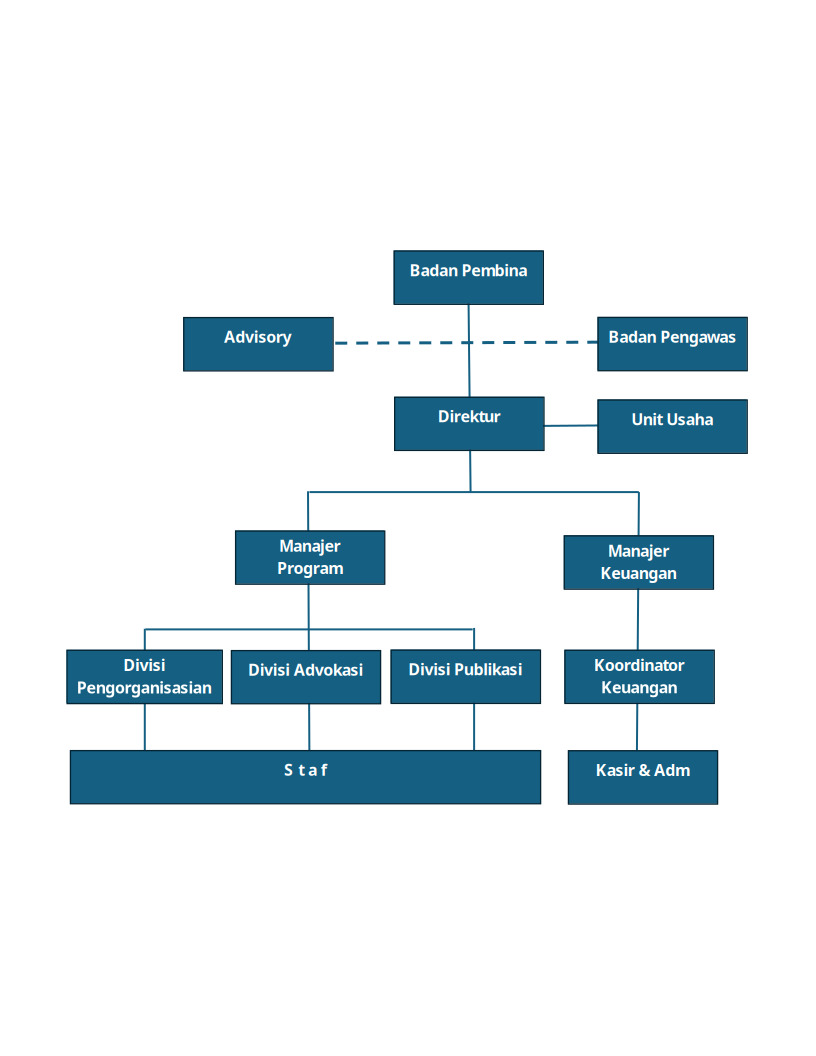
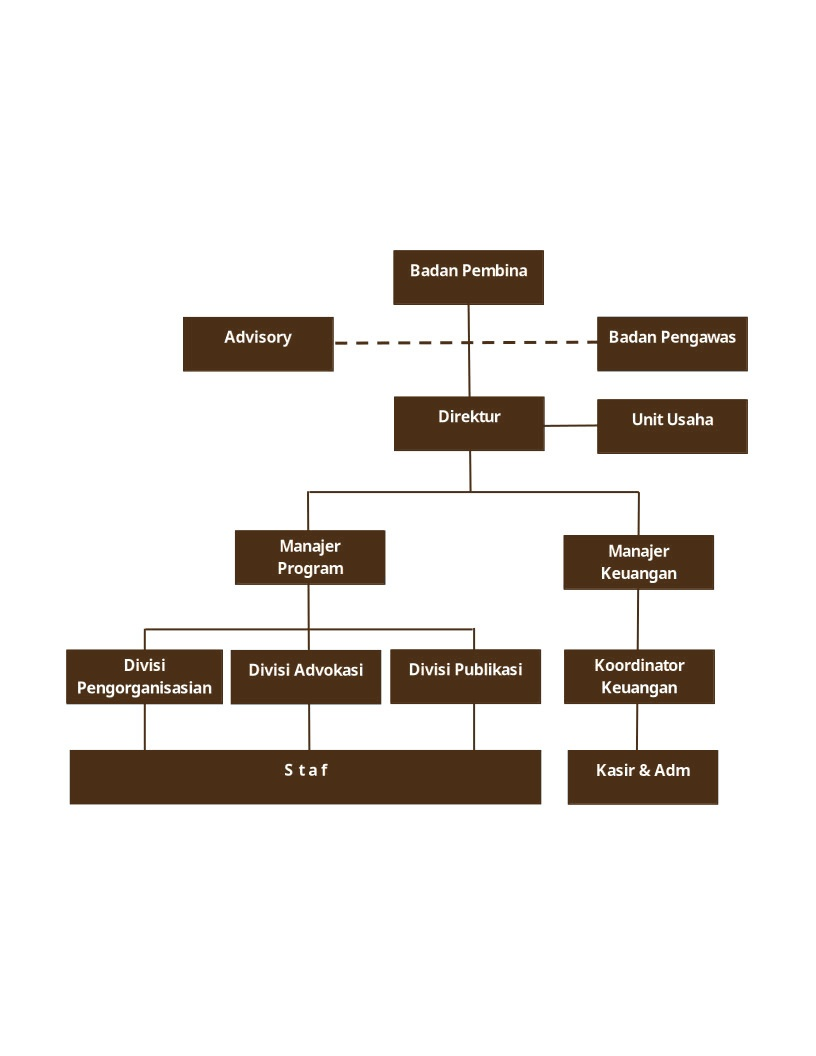
revisi section programs and navbar

diff --git a/src/components/About.jsx b/src/components/About.jsx
@@ -54,35 +54,37 @@ export default function About() {
       icon: Scale,
       title: 'Nilai Dasar: Kearifan Lokal',
       desc: 'Pemberdayaan dilakukan dengan menggali nilai dan pranata sosial lokal yang hidup di masyarakat untuk melindungi dan menjunjung tinggi hak, harkat, dan martabat perempuan, dengan tetap kritis memperbaharui nilai patriarki yang merugikan.'
+    },
+    {
+      icon: BookOpen,
+      title: 'Strategi 4 Pilar Pengorganisasian',
+      desc: (
+        <ul className="list-disc pl-4 space-y-1.5 mt-1 text-xs sm:text-sm text-zinc-650 dark:text-zinc-400">
+          <li>Membangun Visi dan Misi</li>
+          <li>Peningkatan kapasitas</li>
+          <li>Pengembangan organisasi dan jaringan kerja</li>
+          <li>Advokasi kebijakan dan perubahan sosial</li>
+        </ul>
+      )
     }
   ];
 
   const timelineEvents = [
     {
-      title: 'Cakupan Wilayah',
-      desc: 'Pendampingan aktif PPSW Banten tersebar di berbagai wilayah administrasi basis dampingan di Provinsi Banten.',
-      stats: [
-        { label: 'Kabupaten', value: '4', note: 'Pandeglang, Lebak, Serang, Tangerang' },
-        { label: 'Kecamatan Binaan', value: '13', note: 'Kecamatan aktif dampingan' },
-        { label: 'Desa Dampingan', value: '34', note: 'Desa/Kelurahan tingkat basis' }
-      ]
+      title: '1986',
+      desc: 'Pusat Pengembangan Sumberdaya Wanita disingkat PPSW berdiri pada bulan Juni 1986 sebagai badan Pelaksana dari Yayasan An-Nisa Indonesia.',
     },
     {
-      title: 'Kelompok & Dampingan',
-      desc: 'Membangun kesadaran kritis, memperkuat kepemimpinan, dan mengorganisasi perempuan tingkat basis.',
-      stats: [
-        { label: 'Perempuan Dampingan', value: '2.359', note: 'Jiwa perempuan aktif basis' },
-        { label: 'Kelompok/Koperasi', value: '50', note: 'Kelompok Pra Koperasi & Koperasi' }
-      ]
+      title: '2005',
+      desc: 'PPSW bertransformasi menjadi organisasi Asosiasi yang terdiri dari empat lembaga otonom yaitu PPSW Jakarta, PPSW Banten, PPSW Borneo dan PPSW Sumatera.',
     },
     {
-      title: 'Kemandirian Finansial',
-      desc: 'Pengembangan modal usaha anggota koperasi perempuan secara mandiri dan berkelanjutan bebas rentenir.',
-      stats: [
-        { label: 'Simpanan Anggota', value: 'Rp 4.869.154.103', note: 'Simpanan kelompok' },
-        { label: 'Pinjaman Disalurkan', value: 'Rp 5.377.995.550', note: 'Sirkulasi modal usaha' },
-        { label: 'Asset Koperasi', value: 'Rp 6.618.699.573', note: 'Akumulasi kekayaan koperasi' }
-      ]
+      title: '2021',
+      desc: 'Strategi desentralisasi diperkuat dengan pembentukan wilayah otonom baru yaitu PPSW Sumatera menjadi PPSW Aceh dan PPSW Riau sedangkan PPSW Pasoendan menjadi PPSW Pasoendan Digdaya, agar pelayanan dan pendampingan lebih dekat dengan masyarakat.',
+    },
+    {
+      title: '2026',
+      desc: 'Melalui Mubes Asosiasi PPSW, PPSW Pasoendan Digdaya bertransformasi menjadi PPSW Tatar Sunda dan PPSW Banten. PPSW Banten resmi berdiri sebagai lembaga otonom yang melanjutkan gerakan pemberdayaan perempuan di Provinsi Banten.',
     }
   ];
 
@@ -185,17 +187,17 @@ export default function About() {
             {/* Opening Story (Narrative Highlight) */}
             <div className="border-l-4 border-primary pl-6 py-2">
               <p className="text-lg sm:text-xl font-serif italic font-extrabold text-secondary dark:text-[#FFF5EB] leading-relaxed">
-                "Setiap perempuan membawa cerita tentang kekuatan dan mimpi. Bersama PPSW Banten, langkah kecil dari akar rumput tumbuh menjadi gerakan besar yang mengubah dunia. Karena ketika perempuan berdaya dan berdaulat, masa depan yang adil bukan lagi harapan—melainkan kenyataan."
+                "Setiap perempuan membawa cerita tentang kekuatan dan mimpi. Bersama PPSW Banten, langkah kecil dari akar rumput tumbuh menjadi gerakan besar yang mampu mengubah dunia."
               </p>
             </div>
 
             {/* Profile Content */}
             <div className="pt-4 space-y-4 text-xs sm:text-sm md:text-base">
               <p className="text-zinc-700 dark:text-zinc-300 leading-relaxed">
-                PPSW Banten adalah Organisasi Non Pemerintah (Ornop) yang berfokus pada pemberdayaan perempuan, penguatan ekonomi, kepemimpinan perempuan, keadilan gender, serta pembangunan masyarakat yang inklusif di Provinsi Banten. Kami berupaya menumbuhkan kesadaran kritis masyarakat, meningkatkan kapasitas, dan membuka akses melalui kegiatan utamanya yaitu pengorganisasian masyarakat dengan pintu masuk melalui kegiatan ekonomi dengan pembentukan kelompok perempuan berbasis kegiatan Pra Koperasi.
+                PPSW Banten adalah NGO perempuan yang berpihak pada hak-hak dan kepentingan perempuan untuk mewujudkan keadilan, kesejahteraan, dan kesetaraan. Sejak berdiri, PPSW Banten secara konsisten mendampingi kelompok perempuan di tingkat basis, memperkuat kapasitas kepemimpinan perempuan, serta membangun solidaritas untuk menciptakan perubahan sosial yang berkelanjutan.
               </p>
               <p className="text-zinc-700 dark:text-zinc-300 leading-relaxed font-normal">
-                Didirikan sejak Juni 1986 sebagai badan Pelaksana dari Yayasan An-Nisa Indonesia, PPSW bertransformasi menjadi Yayasan PPSW pada 1998 dan Perkumpulan PPSW pada 2003. Pada tahun 2005, PPSW menjadi organisasi Asosiasi dengan empat lembaga otonom. Melalui desentralisasi wilayah, pada Juni 2026 Mubes Asosiasi PPSW memandirikan PPSW Banten untuk melanjutkan gerakan pemberdayaan kelompok perempuan basis di Provinsi Banten secara terfokus dan efektif.
+                Kami percaya bahwa setiap perempuan memiliki potensi untuk menjadi agen perubahan. Dengan memperkuat organisasi perempuan di basis, memperluas akses terhadap pendidikan, ekonomi, sosial, advokasi, dan ruang partisipasi publik, PPSW Banten terus mendorong lahirnya gerakan masyarakat yang lebih adil, inklusif, dan setara.
               </p>
             </div>
           </motion.div>
@@ -245,21 +247,21 @@ export default function About() {
           </div>
         </div>
 
-        {/* Perjalanan PPSW Section */}
+        {/* Perjalanan PPSW Section - History Timeline */}
         <div className="mb-24">
           <div className="text-center max-w-2xl mx-auto mb-16 relative">
             <WatercolorBlob className="w-48 h-48 -top-12 left-1/2 -translate-x-1/2 opacity-40" seed={1} />
             <span className="inline-flex items-center gap-1.5 px-3 py-1 rounded-full bg-secondary/10 text-secondary dark:bg-secondary/20 dark:text-accent text-xs font-bold uppercase tracking-wider mb-3">
-              Capaian & Dampak
+              Perjalanan Gerakan
             </span>
             <h3 className="text-2xl sm:text-4xl font-serif font-extrabold text-secondary dark:text-white">
-              Capaian Dampak Pendampingan
+              Sejarah PPSW Banten
             </h3>
             <div className="h-0.5 w-16 bg-primary/30 mx-auto mt-4" />
           </div>
 
-          {/* Clean Horizontal Timeline on Desktop / Vertical Stack on Mobile */}
-          <div className="relative border-l-2 border-primary/25 dark:border-primary/15 ml-4 md:ml-0 md:border-l-0 md:grid md:grid-cols-3 md:gap-6 lg:gap-8 before:absolute before:top-1/2 before:left-0 before:right-0 before:h-0.5 before:bg-primary/20 before:-translate-y-1/2 before:hidden before:md:block">
+          {/* Clean Timeline on Desktop / Vertical Stack on Mobile */}
+          <div className="relative border-l-2 border-primary/25 dark:border-primary/15 ml-4 md:ml-0 md:border-l-0 md:grid md:grid-cols-2 lg:grid-cols-4 md:gap-6 lg:gap-8">
             
             {timelineEvents.map((event, idx) => (
               <motion.div
@@ -273,6 +275,71 @@ export default function About() {
                 {/* Connector Dot */}
                 <div className="absolute left-[-9px] top-0.5 md:left-1/2 md:-translate-x-1/2 md:-top-2 w-4 h-4 rounded-full bg-white dark:bg-zinc-950 border-4 border-primary group-hover:scale-125 transition-transform duration-300 z-10" />
 
+                {/* Event Card */}
+                <div className="p-6 rounded-2xl bg-white/70 dark:bg-zinc-900/50 border border-primary/10 shadow-md group-hover:shadow-lg transition-all duration-300 hover:scale-[1.01] h-full flex flex-col justify-start text-left premium-card premium-card-hover">
+                  <span className="font-serif font-extrabold text-xl sm:text-2xl text-secondary dark:text-white mb-1.5 block leading-tight">
+                    {event.title}
+                  </span>
+                  <p className="text-xs sm:text-sm text-zinc-650 dark:text-zinc-400 leading-relaxed font-normal">
+                    {event.desc}
+                  </p>
+                </div>
+              </motion.div>
+            ))}
+          </div>
+        </div>
+        
+        {/* Capaian & Dampak Section */}
+        <div className="mb-24">
+          <div className="text-center max-w-2xl mx-auto mb-16 relative">
+            <WatercolorBlob className="w-48 h-48 -top-12 left-1/2 -translate-x-1/2 opacity-40" seed={2} />
+            <span className="inline-flex items-center gap-1.5 px-3 py-1 rounded-full bg-primary/10 text-primary dark:bg-primary/20 dark:text-accent text-xs font-bold uppercase tracking-wider mb-3">
+              Capaian & Dampak
+            </span>
+            <h3 className="text-2xl sm:text-4xl font-serif font-extrabold text-secondary dark:text-white">
+              Capaian Dampak Pendampingan
+            </h3>
+            <div className="h-0.5 w-16 bg-primary/30 mx-auto mt-4" />
+          </div>
+
+          {/* Cards Grid for Achievements */}
+          <div className="grid grid-cols-1 md:grid-cols-3 gap-6 lg:gap-8">
+            {[
+              {
+                title: 'Cakupan Wilayah',
+                desc: 'Pendampingan aktif PPSW Banten tersebar di berbagai wilayah administrasi basis dampingan di Provinsi Banten.',
+                stats: [
+                  { label: 'Kabupaten', value: '4', note: 'Pandeglang, Lebak, Serang, Tangerang' },
+                  { label: 'Kecamatan Binaan', value: '13', note: 'Kecamatan aktif dampingan' },
+                  { label: 'Desa Dampingan', value: '34', note: 'Desa/Kelurahan tingkat basis' }
+                ]
+              },
+              {
+                title: 'Kelompok & Dampingan',
+                desc: 'Membangun kesadaran kritis, memperkuat kepemimpinan, dan mengorganisir perempuan tingkat basis.',
+                stats: [
+                  { label: 'Perempuan Dampingan', value: '2.359', note: 'Jiwa perempuan aktif basis' },
+                  { label: 'Kelompok/Koperasi', value: '50', note: 'Kelompok Pra Koperasi & Koperasi' }
+                ]
+              },
+              {
+                title: 'Kemandirian Finansial',
+                desc: 'Pengembangan modal usaha anggota koperasi perempuan secara mandiri dan berkelanjutan bebas rentenir.',
+                stats: [
+                  { label: 'Simpanan Anggota', value: 'Rp 4.869.154.103', note: 'Simpanan kelompok' },
+                  { label: 'Pinjaman Disalurkan', value: 'Rp 5.377.995.550', note: 'Sirkulasi modal usaha' },
+                  { label: 'Asset Koperasi', value: 'Rp 6.618.699.573', note: 'Akumulasi kekayaan koperasi' }
+                ]
+              }
+            ].map((event, idx) => (
+              <motion.div
+                key={idx}
+                initial={{ opacity: 0, y: 20 }}
+                whileInView={{ opacity: 1, y: 0 }}
+                viewport={{ once: true }}
+                transition={{ delay: idx * 0.1 }}
+                className="group"
+              >
                 {/* Event Card */}
                 <div className="p-6 rounded-2xl bg-white/70 dark:bg-zinc-900/50 border border-primary/10 shadow-md group-hover:shadow-lg transition-all duration-300 hover:scale-[1.01] h-full flex flex-col justify-start text-left premium-card premium-card-hover">
                   <span className="font-serif font-extrabold text-xl sm:text-2xl text-secondary dark:text-white mb-1.5 block leading-tight">
@@ -302,7 +369,6 @@ export default function About() {
                 </div>
               </motion.div>
             ))}
-
           </div>
         </div>
 

diff --git a/src/components/Programs.jsx b/src/components/Programs.jsx
@@ -42,21 +42,38 @@ export default function Programs() {
     },
     {
       id: 'pelatihan',
-      title: 'Pelatihan',
+      title: 'Pendidikan & Penguatan Kapasitas',
       icon: GraduationCap,
       gradient: 'from-primary to-primary-dark',
-      description: 'Menyelenggarakan berbagai pelatihan untuk masyarakat dan mitra guna membekali mereka dengan keterampilan teknis, manajerial, dan pengembangan diri.',
-      detailedInfo: 'PPSW Banten memfasilitasi berbagai pelatihan bagi masyarakat mitra dan lembaga-lembaga lain yang membutuhkan. Pelatihan yang diberikan berkaitan dengan keterampilan teknis, manajerial, dan pengembangan diri.',
+      description: 'Menyelenggarakan pelatihan kepemimpinan, gender, literasi digital, literasi keuangan, pendidikan politik, kewirausahaan, pemetaan kerentanan dan risiko keamanan tanggap bencana, kesehatan reproduksi, dan pendampingan untuk membangun kekuatan kolektif.',
+      detailedInfo: 'Menyelenggarakan pelatihan kepemimpinan, gender, literasi digital, literasi keuangan, pendidikan politik, kewirausahaan, pemetaan kerentanan dan risiko keamanan tanggap bencana, kesehatan reproduksi, melakukan advokasi untuk membangun kekuatan kolektif dan pendampingan.',
       outcomes: [
-        'Pelatihan Dasar Kelompok/Koperasi',
-        'Seri Pelatihan UKM',
-        'Community Organizing',
-        'Literasi Keuangan',
+        'Pelatihan Kepemimpinan',
+        'Pelatihan Gender',
         'Literasi Digital',
-        'Penyadaran Kesehatan Reproduksi',
-        'Paralegal'
+        'Literasi Keuangan',
+        'Pendidikan Politik',
+        'Kewirausahaan',
+        'Pemetaan Kerentanan dan Risiko Keamanan Tanggap Bencana',
+        'Kesehatan Reproduksi',
+        'Pendampingan'
       ],
       metric: 'Pelatihan terpadu peningkatan kapasitas masyarakat basis'
+    },
+    {
+      id: 'advokasi',
+      title: 'Advokasi',
+      icon: Handshake,
+      gradient: 'from-secondary to-accent',
+      description: 'Melakukan advokasi untuk menyuarakan kebijakan pemerintah yang menjamin perempuan bebas dari segala bentuk diskriminasi dan ketidakadilan gender di ruang publik maupun domestik.',
+      detailedInfo: 'Melakukan advokasi dalam rangka menyuarakan kebijakan pemerintah yang menjamin perempuan bebas dari segala bentuk diskriminasi dan ketidakadilan gender di ruang publik maupun domestik.',
+      outcomes: [
+        'Kebijakan & Regulasi: Mendukung lahirnya PERDES responsif gender, program Madani untuk tata kelola kolaboratif',
+        'Sosial & Komunitas: Organisir kelompok perempuan dengan pintu masuk ekonomi, libatkan tokoh laki-laki',
+        'Digital & Ekonomi: Akses digital setara via IDEAS, Go Digital ASEAN, dan Keamanan Digital',
+        'Kepemimpinan Perempuan: Akademi Paradigta Indonesia dengan semangat Everyone A Changemaker'
+      ],
+      metric: 'Advokasi kebijakan dan perubahan sosial'
     },
     {
       id: 'seminar',

diff --git a/src/components/Navbar.jsx b/src/components/Navbar.jsx
@@ -64,9 +64,14 @@ export default function Navbar({ isDark, toggleTheme }) {
               alt="Logo PPSW Banten" 
               className="h-[50px] lg:h-[60px] w-auto object-contain rounded-[12px] bg-white p-[2px] shadow-sm transition-transform duration-300 group-hover:scale-105"
             />
-            <span className="font-bold text-xl tracking-tight bg-gradient-to-r from-secondary via-primary to-accent bg-clip-text text-transparent">
-              PPSW BANTEN
-            </span>
+            <div className="flex flex-col">
+              <span className="font-bold text-xl tracking-tight bg-gradient-to-r from-secondary via-primary to-accent bg-clip-text text-transparent">
+                PPSW BANTEN
+              </span>
+              <span className="text-[10px] lg:text-xs font-medium text-zinc-500 dark:text-zinc-400 mt-0.5">
+                Center for Women’s Resources Development in Banten
+              </span>
+            </div>
           </a>
 
           {/* Desktop Nav Links */}

diff --git a/src/components/Hero.jsx b/src/components/Hero.jsx
@@ -96,7 +96,7 @@ export default function Hero() {
               variants={itemVariants}
               className="mt-6 sm:mt-8 text-base sm:text-lg text-zinc-650 dark:text-zinc-300 max-w-xl font-normal leading-relaxed"
             >
-              Setiap perempuan membawa cerita tentang kekuatan dan mimpi. Bersama PPSW Banten, langkah kecil dari akar rumput tumbuh menjadi gerakan besar yang menciptakan perubahan nyata bagi masyarakat.
+              Setiap perempuan membawa cerita tentang kekuatan dan mimpi. Bersama PPSW Banten, langkah kecil dari akar rumput tumbuh menjadi gerakan besar yang mampu mengubah dunia.
             </motion.p>
             
             {/* Call to Actions - responsive buttons */}

diff --git a/read_docx.py b/read_docx.py
@@ -1,0 +1,40 @@
+
+from docx import Document
+from docx.shared import RGBColor
+
+doc = Document("/home/tsuyuri/Documents/web-compro-lembaga/Masukan 1(2).docx")
+
+print("=== File Content ===\n")
+
+for para_idx, paragraph in enumerate(doc.paragraphs):
+    print(f"Paragraph {para_idx}:")
+    for run_idx, run in enumerate(paragraph.runs):
+        text = run.text.strip()
+        if not text:
+            continue
+        
+        # Check highlight color
+        highlight = run.font.highlight_color
+        highlight_str = "None"
+        if highlight is not None:
+            highlight_str = str(highlight)
+        
+        # Check text color
+        color = run.font.color
+        color_str = "Auto"
+        if color and color.rgb:
+            color_str = f"RGB({color.rgb.red}, {color.rgb.green}, {color.rgb.blue})"
+        
+        print(f"  Run {run_idx}: '{text}'")
+        print(f"    - Highlight: {highlight_str}")
+        print(f"    - Text Color: {color_str}")
+    print()
+
+print("\n=== Tables ===\n")
+for table_idx, table in enumerate(doc.tables):
+    print(f"Table {table_idx}:")
+    for row_idx, row in enumerate(table.rows):
+        row_data = []
+        for cell in row.cells:
+            row_data.append(cell.text.strip())
+        print(f"  Row {row_idx}: {row_data}")

diff --git a/read_docx_v2.py b/read_docx_v2.py
@@ -1,0 +1,36 @@
+
+from docx import Document
+
+doc = Document("/home/tsuyuri/Documents/web-compro-lembaga/Masukan 1(2).docx")
+
+print("=== File Content ===\n")
+
+for para_idx, paragraph in enumerate(doc.paragraphs):
+    print(f"Paragraph {para_idx}:")
+    for run_idx, run in enumerate(paragraph.runs):
+        text = run.text.strip()
+        if not text:
+            continue
+        
+        # Check highlight color
+        highlight = run.font.highlight_color
+        highlight_str = str(highlight) if highlight is not None else "None"
+        
+        # Check text color
+        color_str = "Auto"
+        if run.font.color and run.font.color.rgb:
+            color_str = str(run.font.color.rgb)
+        
+        print(f"  Run {run_idx}: '{text}'")
+        print(f"    - Highlight: {highlight_str}")
+        print(f"    - Text Color: {color_str}")
+    print()
+
+print("\n=== Tables ===\n")
+for table_idx, table in enumerate(doc.tables):
+    print(f"Table {table_idx}:")
+    for row_idx, row in enumerate(table.rows):
+        row_data = []
+        for cell in row.cells:
+            row_data.append(cell.text.strip())
+        print(f"  Row {row_idx}: {row_data}")